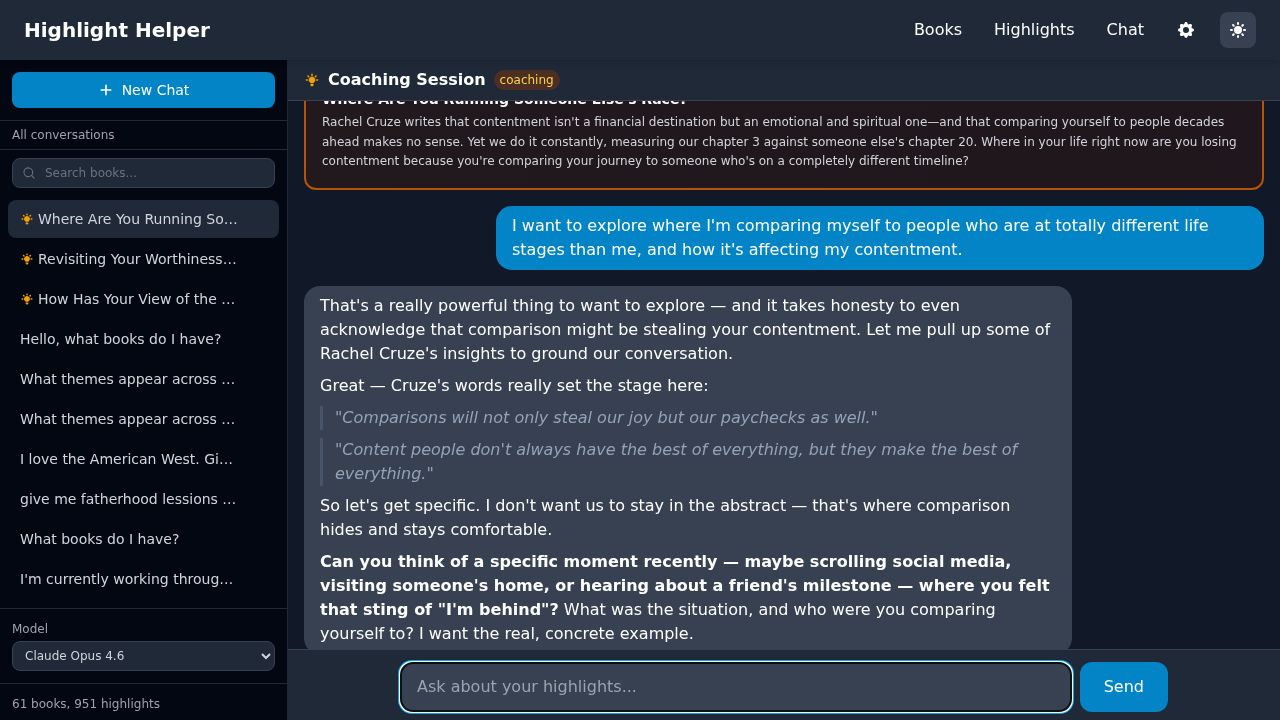
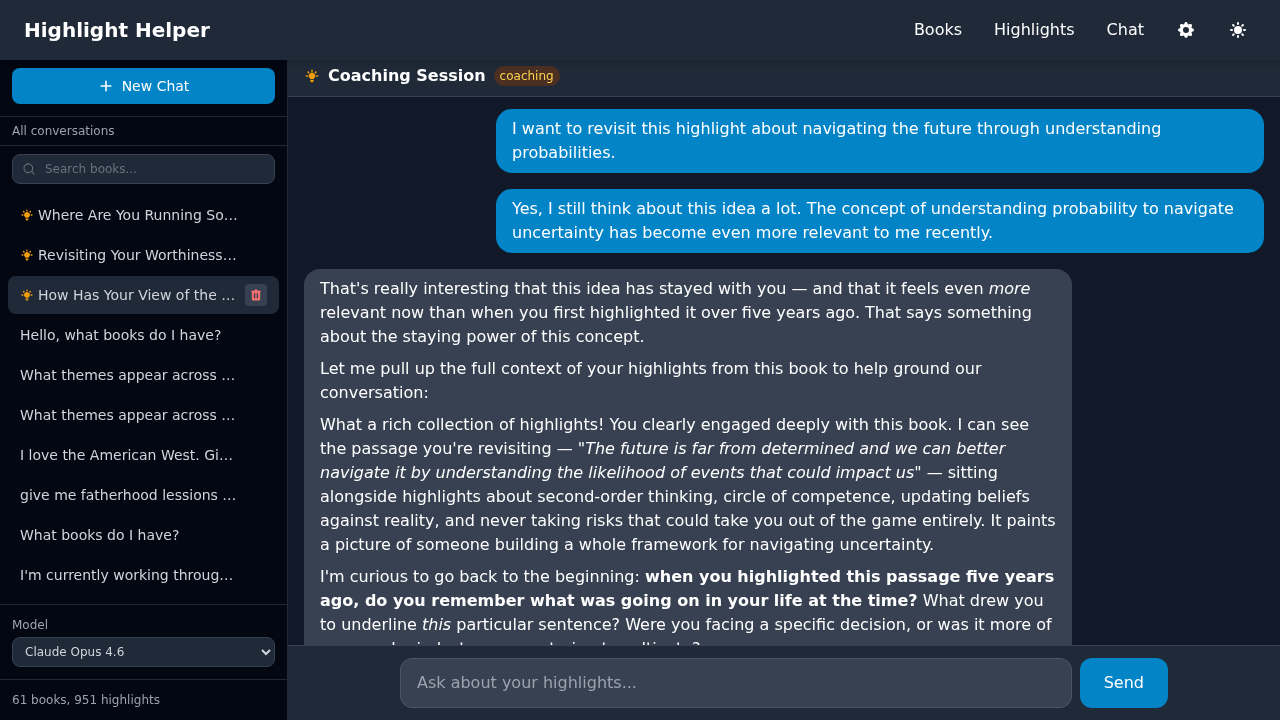
docs: Replace coaching screenshots with less personal examples
Swap coaching session screenshots to show a conversation about
probabilistic thinking and navigating uncertainty instead of
personal/emotional topics.

diff --git a/README.md b/README.md
@@ -45,9 +45,7 @@ Highlight Helper captures and organizes passages from physical books. Take a pho
 
 Highlight Helper proactively generates coaching cards based on your reading highlights — prompting you to revisit old passages, find cross-book connections, and reflect on what you've read. Click "Reflect in Chat" to start a Socratic coaching session where the AI draws on your actual highlights to ask thoughtful questions.
 
-![Coaching session exploring comparison and contentment across highlights from Rachel Cruze](static/screenshots/coaching-session.png)
-
-![Coaching session revisiting a highlight about self-worth from KC Davis](static/screenshots/coaching-session-2.png)
+![Coaching session exploring probabilistic thinking and navigating uncertainty](static/screenshots/coaching-session.png)
 
 ## Technology Stack
 
